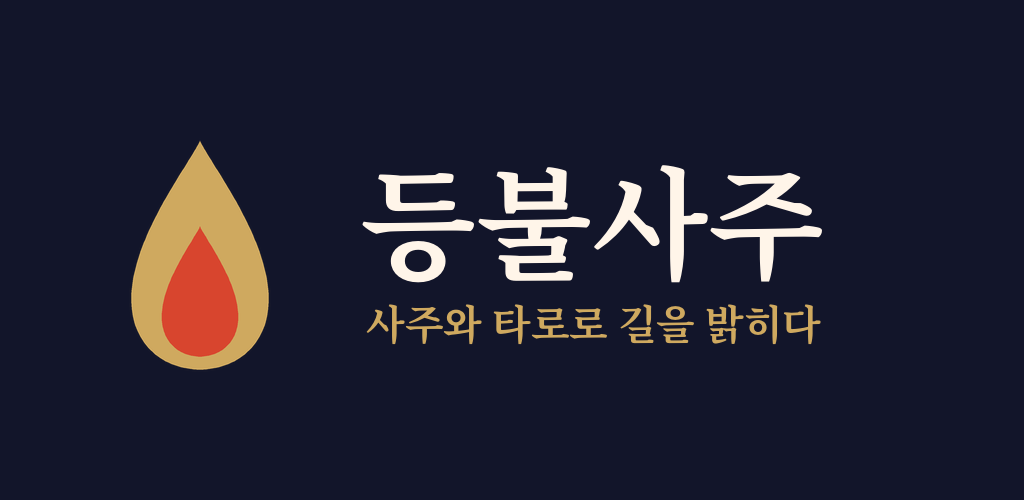
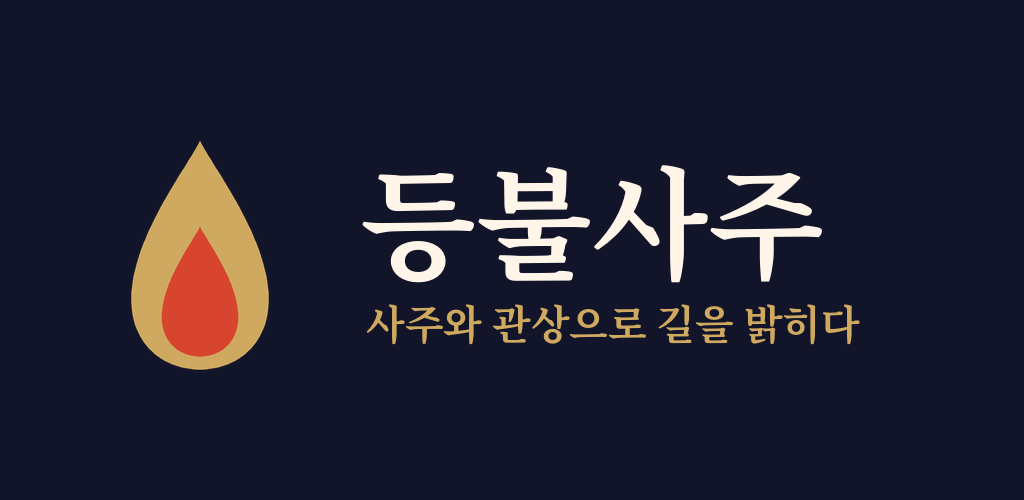
그래픽 이미지 문구를 '사주와 관상으로 길을 밝히다'로 변경
Claude-Session: https://claude.ai/code/session_01QACgwmPwTTV6X5ASPwkZ8c

Changed region(s): [[0.4688, 0.6, 0.8438, 0.69]]

diff --git a/scripts/make-assets.py b/scripts/make-assets.py
@@ -40,6 +40,6 @@ os.makedirs('store', exist_ok=True)
 on_bg(512, 0.74).convert('RGB').save('store/icon-512.png')
 fg = Image.new('RGB', (1024, 500), INK); d = ImageDraw.Draw(fg); s = seal(260); fg.paste(s, (70, 120), s)
 kr = ImageFont.truetype(FONT, 120); sm = ImageFont.truetype(FONT, 40)
-d.text((360, 130), '등불사주', font=kr, fill=PAPER); d.text((366, 292), '사주와 타로로 길을 밝히다', font=sm, fill=GOLD)
+d.text((360, 130), '등불사주', font=kr, fill=PAPER); d.text((366, 292), '사주와 관상으로 길을 밝히다', font=sm, fill=GOLD)
 fg.save('store/feature-1024x500.png')
 print('아이콘, 스플래시, 스토어 그래픽 생성 완료')
